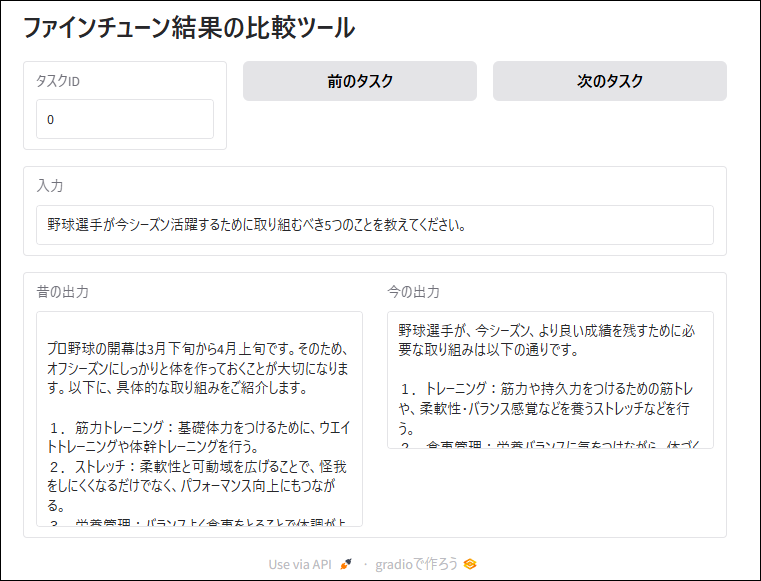
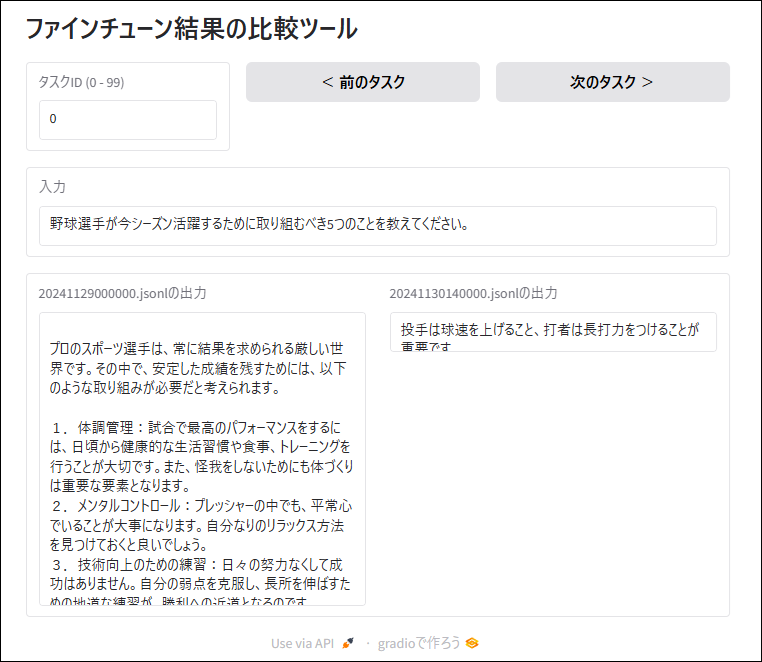
fix and improve

diff --git a/main.py b/main.py
@@ -1,13 +1,11 @@
 import gradio as gr
 import json
+
 title = "ファインチューン結果の比較ツール"
 
 
 # 比較したい2つの結果ファイルへのパスを指定してください
-output_files = {
-    "old": "20241129000000.jsonl",
-    "now": "20241130140000.jsonl"
-}
+output_files = {"old": "20241129000000.jsonl", "now": "20241130140000.jsonl"}
 
 
 def main():
@@ -18,21 +16,42 @@ def main():
             return [json.loads(line) for line in f]
 
     # データ展開
-    data = [(o["task_id"], o["input"], o["output"], n["output"])
-            for o, n in zip(load_jsonl("old"), load_jsonl("now"))]
+    data = [
+        (o["task_id"], o["input"], o["output"], n["output"])
+        for o, n in zip(load_jsonl("old"), load_jsonl("now"))
+    ]
 
-    with gr.Blocks(title=title) as demo:
+    shortcut_js = """
+<script>
+function shortcuts(e) {
+
+    if (e.key ==  'ArrowLeft') {
+        document.getElementById("component-4").click();
+    }
+    else if (e.key == 'ArrowRight') {
+        document.getElementById("component-5").click();
+    }
+}
+document.addEventListener('keyup', shortcuts, false);
+</script>
+"""
+
+    with gr.Blocks(title=title, head=shortcut_js) as demo:
 
         # 画面の配置
         gr.Markdown(f"# {title}")
         with gr.Row():
-            task_id = gr.Textbox(label="タスクID")
-            prev_button = gr.Button("前のタスク")
-            next_button = gr.Button("次のタスク")
+            task_id = gr.Textbox(label=f"タスクID (0 - {len(data) - 1})")
+            prev_button = gr.Button("＜ 前のタスク")
+            next_button = gr.Button("次のタスク ＞")
         input_text = gr.Textbox(label="入力", interactive=False)
         with gr.Row():
-            output_old = gr.Textbox(label="昔の出力", interactive=False)
-            output_now = gr.Textbox(label="今の出力", interactive=False)
+            output_old = gr.Textbox(
+                label=f"{output_files.get('old')}の出力", interactive=False
+            )
+            output_now = gr.Textbox(
+                label=f"{output_files.get('now')}の出力", interactive=False
+            )
 
         # データ取得
         idx = gr.State(0)
@@ -41,19 +60,27 @@ def main():
             return data[i]
 
         def get_data_by_task_id(task_id):
-            i = int(task_id) if task_id.isdigit(
-            ) and 0 <= int(task_id) <= 100 else 0
-            return data[i]
+            i = (
+                int(task_id)
+                if task_id.isdigit() and 0 <= int(task_id) < len(data)
+                else 0
+            )
+            return i, *data[i]
 
         # 動作の設定
-        task_id.submit(get_data_by_task_id, task_id, [
-                       task_id, input_text, output_old, output_now])
+        task_id.submit(
+            get_data_by_task_id,
+            task_id,
+            [idx, task_id, input_text, output_old, output_now],
+        )
 
         prev_button.click(lambda x: max(0, x - 1), idx, idx).then(
-            get_data, idx, [task_id, input_text, output_old, output_now])
+            get_data, idx, [task_id, input_text, output_old, output_now]
+        )
 
         next_button.click(lambda x: min(len(data) - 1, x + 1), idx, idx).then(
-            get_data, idx, [task_id, input_text, output_old, output_now])
+            get_data, idx, [task_id, input_text, output_old, output_now]
+        )
 
         demo.load(get_data, idx, [task_id, input_text, output_old, output_now])
 
